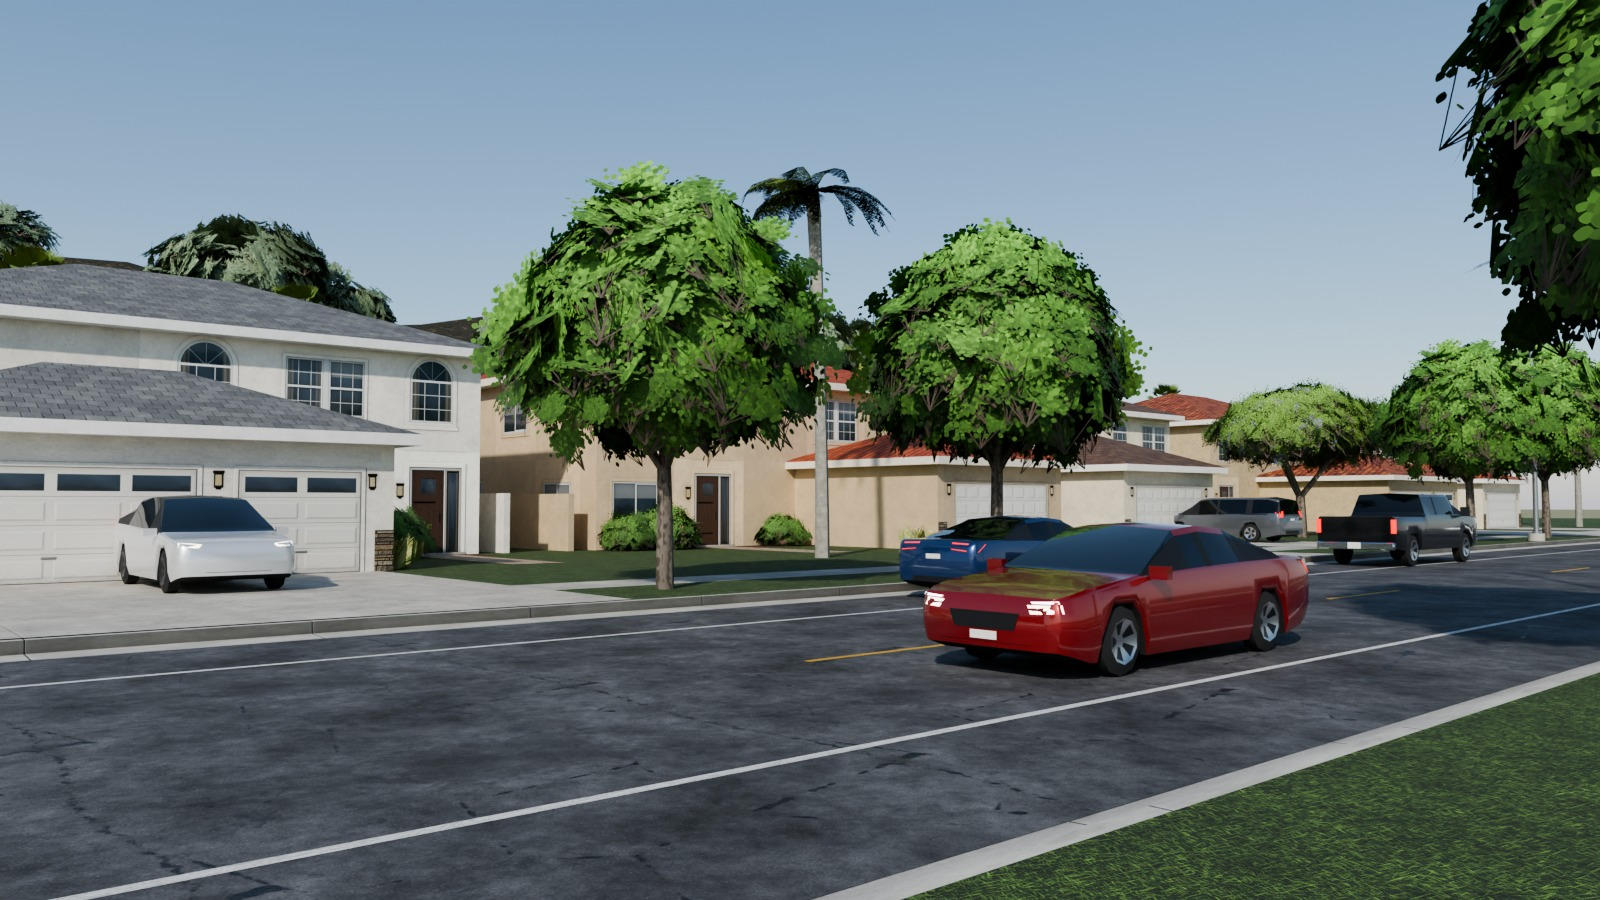
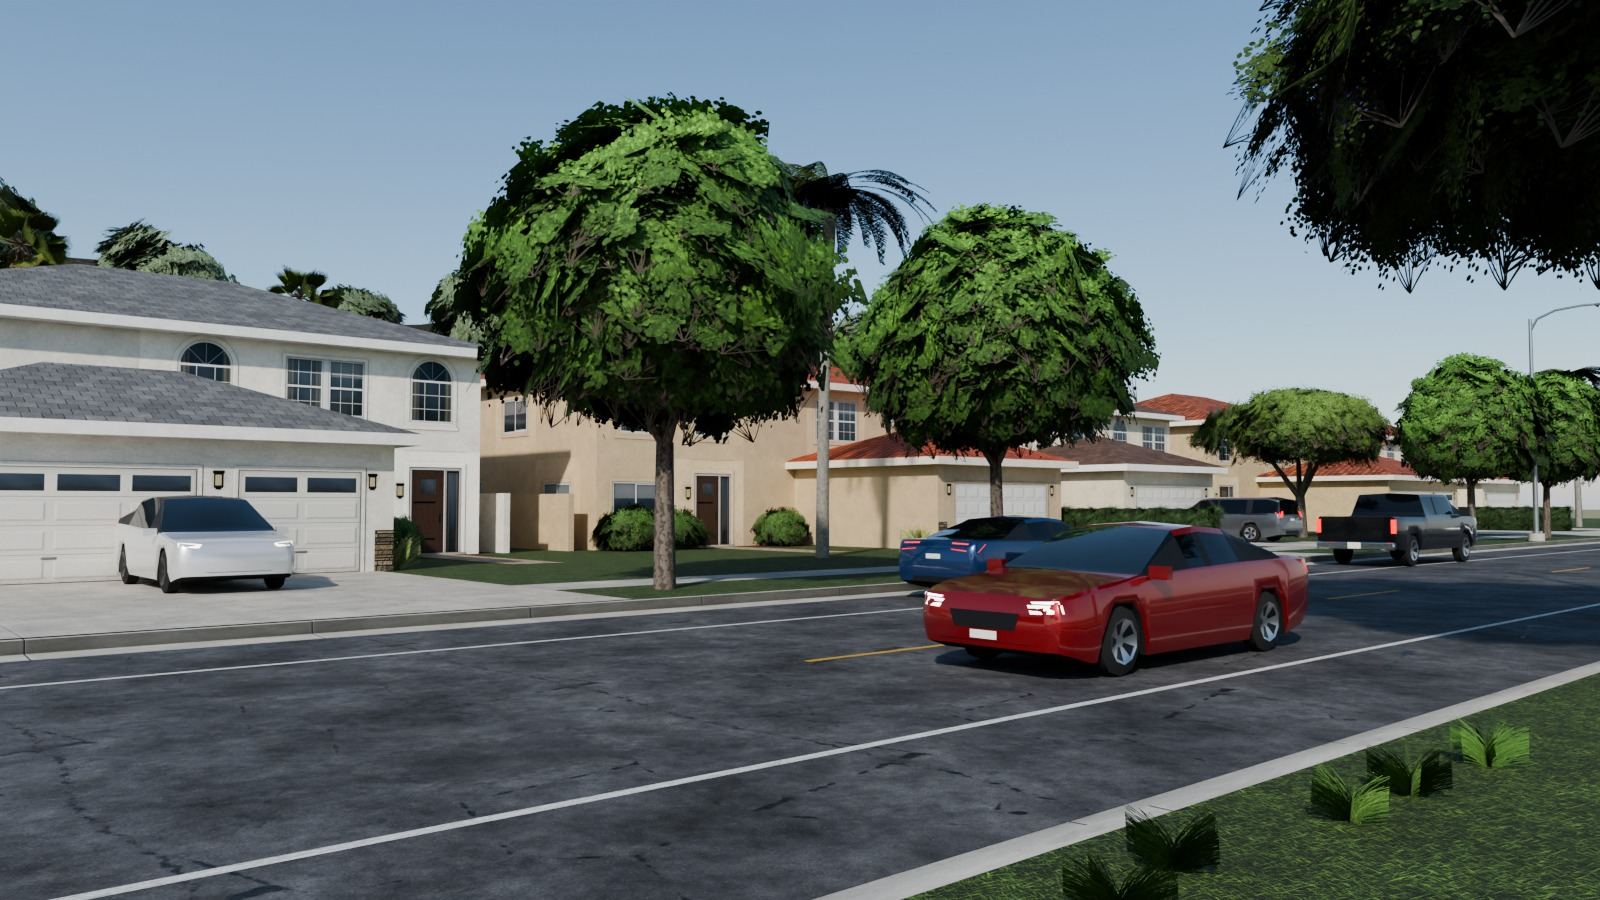
WIP: periodic checkpoint of agent work
Claude-Session: https://claude.ai/code/session_01VXFFZDX9Eitc14tmAzKmXs

diff --git a/pipeline/lidar_features.py b/pipeline/lidar_features.py
@@ -1158,6 +1158,45 @@ def process_roofs(job: TileJob) -> dict[str, Any]:
     return {"tile": (job.ckm, job.rkm), "cached": False, "buildings": len(recs), "seconds": time.time() - t0}
 
 
+def process_tree_qa(job: TileJob) -> dict[str, Any]:
+    """Per-tree return density in the upper crown: lidar returns higher than half the tree height
+    within the crown radius, per m2 of crown. Real canopy is dense (several returns / m2);
+    power-line wires and lone poles, which the CHM turns into tall narrow 'trees', are sparse."""
+    import pandas as pd
+    from scipy.spatial import cKDTree
+
+    out = work_dir() / f"treeqa_{job.ckm}_{job.rkm}.parquet"
+    if not job.force and out.exists():
+        return {"tile": (job.ckm, job.rkm), "cached": True}
+    t0 = time.time()
+    t = pd.read_parquet(work_dir() / f"trees_{job.ckm}_{job.rkm}.parquet")
+    dens = np.zeros(len(t))
+    nup = np.zeros(len(t), dtype=np.int64)
+    if len(t):
+        res = float(assumption("lidar.raster_res_m"))
+        b = job.core.buffered(20.0)
+        P = load_points(Box(b.minx - job.shift[0], b.miny - job.shift[1], b.maxx - job.shift[0], b.maxy - job.shift[1]))
+        P["x"] = P["x"] + job.shift[0]
+        P["y"] = P["y"] + job.shift[1]
+        grid = Grid.from_box(b, res)
+        dtm = fill_nan(_read_mosaic("dtm_0p5m.tif", grid))
+        ph = P["z"] - sample_bilinear(grid, dtm, P["x"], P["y"])
+        hi = ph > 2.0
+        tree = cKDTree(np.column_stack([P["x"][hi], P["y"][hi]]))
+        hh = ph[hi]
+        e, n = t["easting"].to_numpy(), t["northing"].to_numpy()
+        h, r = t["height_m"].to_numpy(), np.maximum(t["crown_radius_m"].to_numpy(), 1.0)
+        for i, ix in enumerate(tree.query_ball_point(np.column_stack([e, n]), r)):
+            k = int(np.count_nonzero(hh[ix] >= 0.5 * h[i])) if ix else 0
+            nup[i] = k
+            dens[i] = k / (math.pi * r[i] ** 2)
+    df = pd.DataFrame({"upper_returns": nup, "upper_return_density_m2": dens})
+    tmp = out.with_suffix(".part")
+    df.to_parquet(tmp, index=False)
+    tmp.replace(out)
+    return {"tile": (job.ckm, job.rkm), "cached": False, "trees": len(t), "seconds": time.time() - t0}
+
+
 def _poly_window_values(grid: Grid, poly: Any, arrays: list[np.ndarray], p90: int | None = None) -> list[float]:
     """Median of each array over the cells covered by `poly` (centroid cell if none); the
     array at index `p90` gets its 90th percentile instead."""
@@ -1416,6 +1455,11 @@ def write_trees(jobs: list[TileJob]) -> Any:
     parts = []
     for j in jobs:
         t = pd.read_parquet(work_dir() / f"trees_{j.ckm}_{j.rkm}.parquet")
+        qa = work_dir() / f"treeqa_{j.ckm}_{j.rkm}.parquet"
+        if qa.exists():
+            q = pd.read_parquet(qa)
+            if len(q) == len(t):
+                t = pd.concat([t.reset_index(drop=True), q], axis=1)
         if len(t):
             z = np.load(work_dir() / f"tile_{j.ckm}_{j.rkm}.npz")
             t["canopy_cover_20m"] = canopy_cover_at(z["chm"], z["core"], float(assumption("lidar.raster_res_m")),
@@ -1473,13 +1517,10 @@ def main(argv: list[str] | None = None) -> int:
     timings["load_roads_s"] = time.time() - t
     jobs = build_jobs(fp, roads, shift, args.force, fp_all=load_footprints(clip=False))
 
-    # 1. per-tile rasters, trees, lidar-only buildings
+    # 1. per-tile rasters, tree candidates, lidar-only buildings
     t = time.time()
     stats = run_parallel(process_tile, jobs, args.workers, "tile")
     timings["tiles_s"] = time.time() - t
-    trees = write_trees(jobs)
-    mg = write_missing(jobs)
-    log(f"lidar_features: {len(trees):,} trees, {len(mg):,} lidar-only buildings written")
 
     # 2. rasters
     t = time.time()
@@ -1489,11 +1530,20 @@ def main(argv: list[str] | None = None) -> int:
     if args.force or any(s.get("cached") is False for s in stats) or not all((lidar_dir() / v).exists() for v in rasters.values()):
         mosaic(npzs, raster_extent(), res, rasters)
     timings["mosaic_s"] = time.time() - t
+
+    # 3. tree QA (upper-crown return density, needs the DTM mosaic), then trees + lidar-only buildings
+    t = time.time()
+    qjobs = [TileJob(j.ckm, j.rkm, j.core, [], [], [], j.shift, args.force) for j in jobs]
+    run_parallel(process_tree_qa, qjobs, args.workers, "tree QA")
+    trees = write_trees(jobs)
+    mg = write_missing(jobs)
+    timings["trees_s"] = time.time() - t
+    log(f"lidar_features: {len(trees):,} trees, {len(mg):,} lidar-only buildings written")
     if args.tiles_only:
         log(f"lidar_features: tiles done in {time.time() - t0:.0f}s (--tiles-only)")
         return 0
 
-    # 3. roofs (need the mosaicked DTM)
+    # 4. roofs (need the mosaicked DTM)
     t = time.time()
     rjobs = [TileJob(j.ckm, j.rkm, j.core, j.footprints, [], [], j.shift, args.force or args.force_roofs) for j in jobs]
     rstats = run_parallel(process_roofs, rjobs, args.workers, "roofs")

diff --git a/blender/buildings/preview.py b/blender/buildings/preview.py
@@ -342,9 +342,15 @@ def roads_and_driveways(T: Terrain, data: dict[str, Any], builders: list[model.B
     return A
 
 
-def import_proto(path: Path) -> bpy.types.Object:
+def import_proto(path: Path) -> bpy.types.Object | None:
     before = set(bpy.data.objects)
-    bpy.ops.import_scene.gltf(filepath=str(path))
+    try:
+        bpy.ops.import_scene.gltf(filepath=str(path))
+    except (RuntimeError, ValueError) as e:
+        log(f"cannot import {path.name}: {str(e).splitlines()[-1][:120]}")
+        for o in [o for o in bpy.data.objects if o not in before]:
+            bpy.data.objects.remove(o)
+        return None
     new = [o for o in bpy.data.objects if o not in before]
     meshes = [o for o in new if o.type == "MESH"]
     for o in new:
@@ -378,6 +384,8 @@ def place_props(T: Terrain, center: tuple[float, float], radius: float, building
         if int(pi) not in protos:
             protos[int(pi)] = import_proto(f)
         proto = protos[int(pi)]
+        if proto is None:
+            continue
         data = proto.data
         if pr.get("kind") == "vehicle" or pr["id"].startswith("car_"):
             cols = pm.get(pr["id"], {}).get("paint_colors") or []
@@ -411,14 +419,16 @@ def place_props(T: Terrain, center: tuple[float, float], radius: float, building
 _PROTO_CACHE: dict[str, bpy.types.Object] = {}
 
 
-def proto_of(file_rel: str) -> bpy.types.Object:
-    if file_rel not in _PROTO_CACHE or _PROTO_CACHE[file_rel].name not in bpy.data.objects:
+def proto_of(file_rel: str) -> bpy.types.Object | None:
+    if file_rel not in _PROTO_CACHE:
         _PROTO_CACHE[file_rel] = import_proto(PROPS_DIR / file_rel)
     return _PROTO_CACHE[file_rel]
 
 
 def instance(file_rel: str, x: float, z: float, y: float, rot: float, s: float = 1.0, data: Any = None) -> None:
     pr = proto_of(file_rel)
+    if pr is None:
+        return
     ob = bpy.data.objects.new(Path(file_rel).stem, data or pr.data)
     ob.location = (x, -z, y)
     ob.rotation_euler = (0.0, 0.0, rot)
@@ -463,6 +473,8 @@ def decorate_lots(T: Terrain, builders: list[model.Builder], asphalt: Any) -> in
             if asphalt is not None and asphalt.contains(Point(x, z)):
                 continue
             cf = cars[int(rng.integers(len(cars)))]
+            if proto_of(cf) is None:
+                continue
             cid = Path(cf).stem
             cols = pm.get(cid, {}).get("paint_colors") or []
             data = None
